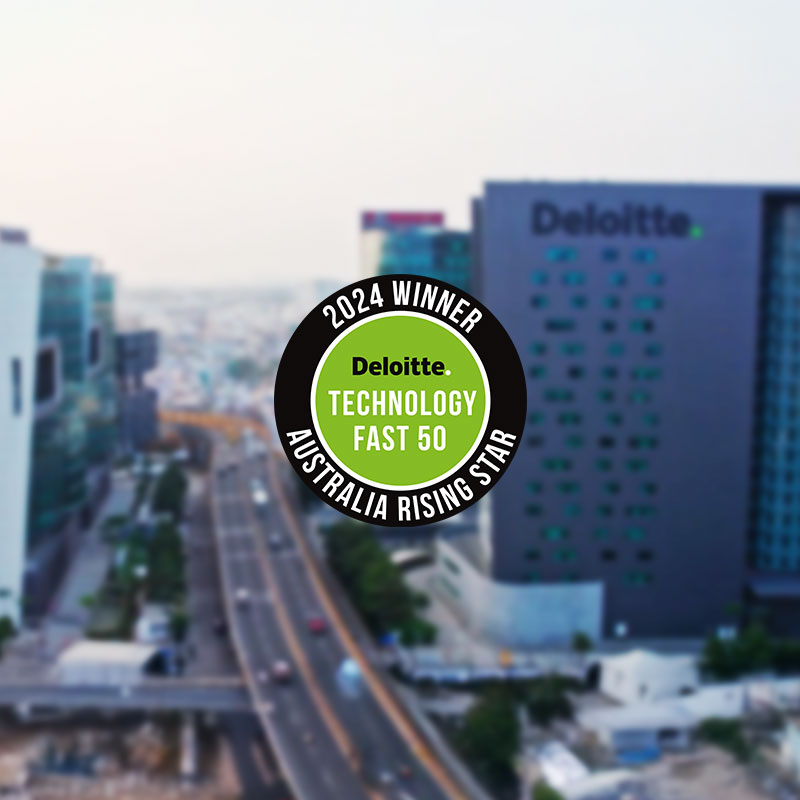
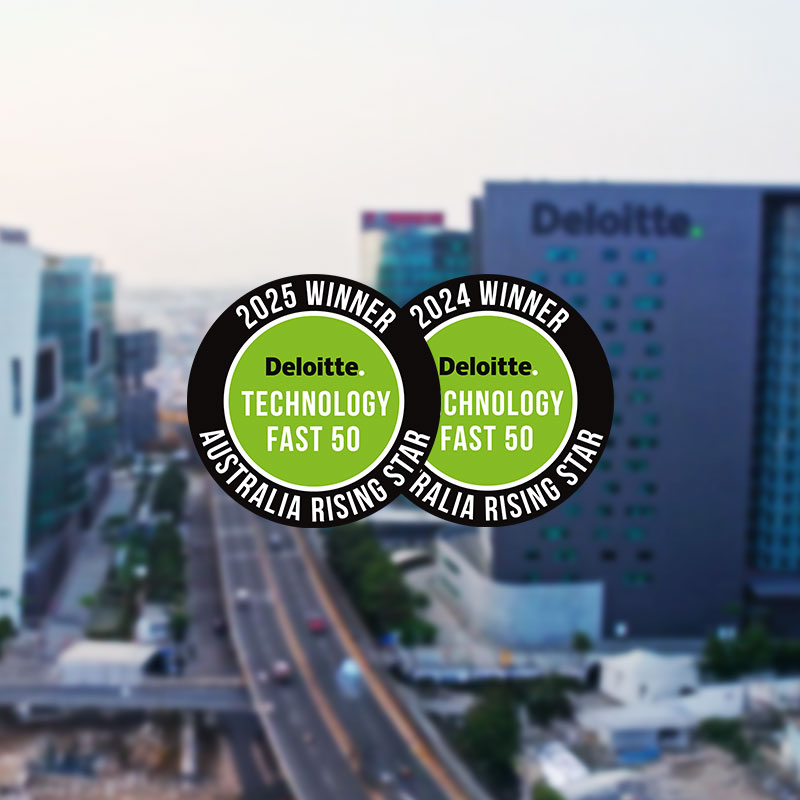
updated recognition page with new image and fixed left right image and text

Changed region(s): [[0.2188, 0.3438, 0.7812, 0.6875]]

diff --git a/app/recognition/page.tsx b/app/recognition/page.tsx
@@ -23,53 +23,62 @@ export default function RecognitionPage() {
         />
         <AwardsSection />
         <EliteTalentSection hideLearnMore={true} />
+        {/* 1. Back-to-back Winner - Deloitte Technology Fast 50 Rising Star 2024 and 2025 - BLUE BG - Text Left, Image Right */}
         <ImageTextSection variant="simple"
-          title="Approved Supplier - Federal Government ICT Digital & Cloud Marketplace Panels"
-          description="Software@Scale is an approved supplier on the Australian Government’s Digital and Cloud Marketplace Panels, allowing federal agencies to directly engage us for ICT and digital services. Approved across every service category we applied for - including software engineering, architecture, cybersecurity and cloud consulting - this accreditation demonstrates our national capability to deliver complex, high-impact digital projects for government."
-          imageSrc="/images/placeholder/placeholder21.jpg"
-          backgroundColor="bg-[#006cc9]"
-          textColor="text-white"
-          titleColor="text-[#14d3f3]"
-        />
-        <ImageTextSection variant="simple"
-          title="Approved Supplier - NSW Government ICT Services Scheme (SCM0020)"
-          description="Software@Scale is a preferred supplier under the NSW Government ICT Services Scheme (Advanced Register), reflecting our proven ability to deliver secure, compliant and innovative technology solutions. We were approved across all nominated categories - from cloud engineering and software design to data analytics and AI - reinforcing our trusted reputation within the public sector."
-          imageSrc="/images/placeholder/placeholder22.jpg"
-          backgroundColor="bg-[#cce1f4]"
-          textColor="text-[#00050a]"
-          titleColor="text-[#0c2080]"
-          imageOnRight={false}
-        />
-        <ImageTextSection variant="simple"
-          title="Finalist - Atlassian Tech Leadership Awards 2025"
-          description="Software@Scale has proudly been named a finalist in the prestigious Atlassian Tech Leadership Awards 2025, which recognises exceptional leadership in the realms of technology, innovation, and organisational culture. This nomination not only highlights our commitment to delivering transformative digital solutions through Atlassian’s robust ecosystem but also celebrates our dedication to empowering both teams and clients to achieve remarkable operational excellence at scale."
-          imageSrc="/images/placeholder/placeholder23.jpg"
-          backgroundColor="bg-[#006cc9]"
-          textColor="text-white"
-          titleColor="text-[#14d3f3]"
-        />
-        <ImageTextSection variant="simple"
-          title="Winner - Australia’s Fastest Growing Business 2025"
-          description="At the prestigious 2025 CUB Awards, Software@Scale proudly received the title of Australia’s Fastest Growing Business. This national recognition is a celebration of exceptional entrepreneurial excellence, groundbreaking innovation, and remarkable expansion in the competitive landscape. Winning this award is a testament to the unwavering dedication of our talented team, the strong partnerships we have built with our clients, and our relentless pursuit of growth through innovative solutions and a steadfast commitment to customer success. We are excited to continue this journey and achieve even greater heights."
-          imageSrc="/images/placeholder/placeholder24.jpg"
-          backgroundColor="bg-[#cce1f4]"
-          textColor="text-[#00050a]"
-          titleColor="text-[#0c2080]"
-          imageOnRight={false}
-        />
-        <ImageTextSection variant="simple"
-          title="Winner - Deloitte Technology Fast 50 Rising Star 2024"
-          description="Software@Scale has proudly secured the top position in Australia as the 2024 Deloitte Technology Fast 50 Rising Star Winner. This prestigious recognition celebrates our extraordinary growth and outstanding performance among the most promising emerging technology companies in the region. This remarkable achievement not only underscores our rapid pace of innovation but also highlights our unwavering ability to scale sustainably. Furthermore, it reflects our deep commitment to shaping the future of Australia’s technology landscape, paving the way for new advancements and opportunities in the industry."
+          title="Back-to-back Winner – Deloitte Technology Fast 50 Rising Star 2024 and 2025"
+          description="Software@Scale is proud to be recognised for the second consecutive year as the Deloitte Technology Fast 50 Rising Star Winner for 2024 and 2025. This back-to-back achievement celebrates our consistent innovation, exceptional growth, and leading performance among Australia's most dynamic technology companies. Earning the top position two years running underscores our unwavering commitment to scaling sustainably, driving meaningful outcomes for our clients, and shaping the future of Australia's digital economy. These consecutive honours reflect not only our pace of progress but also our enduring vision - to build technology that delivers lasting impact and opportunity across the industry."
           imageSrc="/images/placeholder/placeholder25.jpg"
           backgroundColor="bg-[#006cc9]"
           textColor="text-white"
           titleColor="text-[#14d3f3]"
+          imageOnRight={true}
         />
+        {/* 2. Approved Supplier - NSW Government ICT Services Scheme - WHITE BG - Image Left, Text Right */}
         <ImageTextSection variant="simple"
-          title="Finalist - The CEO Magazine Executive of the Year Awards 2025"
-          description="Our CEO and Co-Founder, Louis Droguett, has been proudly recognised as a finalist in The CEO Magazine’s prestigious 2025 Executive of the Year Awards. These awards celebrate not only visionary leadership but also outstanding executive performance across the entire landscape of Australia. This remarkable recognition truly honours Louis’s unwavering commitment to innovation, his people-first leadership approach, and the strategic direction that has been instrumental in guiding Software@Scale to its remarkable success."
+          title="Approved Supplier – NSW Government ICT Services Scheme (SCM0020)"
+          description="Software@Scale is a preferred supplier under the NSW Government ICT Services Scheme (Advanced Register), reflecting our proven ability to deliver secure, compliant and innovative technology solutions. We were approved across all nominated categories - from cloud engineering and software design to data analytics and AI - reinforcing our trusted reputation within the public sector."
+          imageSrc="/images/placeholder/placeholder22.jpg"
+          backgroundColor="bg-white"
+          textColor="text-[#00050a]"
+          titleColor="text-[#0c2080]"
+          imageOnRight={false}
+        />
+        {/* 3. Approved Supplier - Federal Government ICT Digital & Cloud Marketplace Panels - BLUE BG - Text Left, Image Right */}
+        <ImageTextSection variant="simple"
+          title="Approved Supplier – Federal Government ICT Digital & Cloud Marketplace Panels"
+          description="Software@Scale is an approved supplier on the Australian Government's Digital and Cloud Marketplace Panels, allowing federal agencies to directly engage us for ICT and digital services. Approved across every service category we applied for - including software engineering, architecture, cybersecurity and cloud consulting - this accreditation demonstrates our national capability to deliver complex, high-impact digital projects for government."
+          imageSrc="/images/placeholder/placeholder21.jpg"
+          backgroundColor="bg-[#006cc9]"
+          textColor="text-white"
+          titleColor="text-[#14d3f3]"
+          imageOnRight={true}
+        />
+        {/* 4. Winner - Australia's Fastest Growing Business 2025 - WHITE BG - Image Left, Text Right */}
+        <ImageTextSection variant="simple"
+          title="Winner – Australia's Fastest Growing Business 2025"
+          description="At the prestigious 2025 CUB Awards, Software@Scale proudly received the title of Australia's Fastest Growing Business. This national recognition is a celebration of exceptional entrepreneurial excellence, groundbreaking innovation, and remarkable expansion in the competitive landscape. Winning this award is a testament to the unwavering dedication of our talented team, the strong partnerships we have built with our clients, and our relentless pursuit of growth through innovative solutions and a steadfast commitment to customer success. We are excited to continue this journey and achieve even greater heights."
+          imageSrc="/images/placeholder/placeholder24.jpg"
+          backgroundColor="bg-white"
+          textColor="text-[#00050a]"
+          titleColor="text-[#0c2080]"
+          imageOnRight={false}
+        />
+        {/* 5. Finalist - Atlassian Tech Leadership Awards 2025 - BLUE BG - Text Left, Image Right */}
+        <ImageTextSection variant="simple"
+          title="Finalist – Atlassian Tech Leadership Awards 2025"
+          description="Software@Scale has proudly been named a finalist in the prestigious Atlassian Tech Leadership Awards 2025, which recognises exceptional leadership in the realms of technology, innovation, and organisational culture. This nomination not only highlights our commitment to delivering transformative digital solutions through Atlassian's robust ecosystem but also celebrates our dedication to empowering both teams and clients to achieve remarkable operational excellence at scale."
+          imageSrc="/images/placeholder/placeholder23.jpg"
+          backgroundColor="bg-[#006cc9]"
+          textColor="text-white"
+          titleColor="text-[#14d3f3]"
+          imageOnRight={true}
+        />
+        {/* 6. Finalist - The CEO Magazine Executive of the Year Awards 2025 - WHITE BG - Image Left, Text Right */}
+        <ImageTextSection variant="simple"
+          title="Finalist – The CEO Magazine Executive of the Year Awards 2025"
+          description="Our CEO and Co-Founder, Louis Droguett, has been proudly recognised as a finalist in The CEO Magazine's prestigious 2025 Executive of the Year Awards. These awards celebrate not only visionary leadership but also outstanding executive performance across the entire landscape of Australia. This remarkable recognition truly honours Louis's unwavering commitment to innovation, his people-first leadership approach, and the strategic direction that has been instrumental in guiding Software@Scale to its remarkable success."
           imageSrc="/images/placeholder/placeholder26.jpg"
-          backgroundColor="bg-[#cce1f4]"
+          backgroundColor="bg-white"
           textColor="text-[#00050a]"
           titleColor="text-[#0c2080]"
           imageOnRight={false}

diff --git a/app/components/shared/ImageTextSection.tsx b/app/components/shared/ImageTextSection.tsx
@@ -105,7 +105,7 @@ export default function ImageTextSection({
   };
 
   const content = (
-    <div className="content-stretch flex flex-col gap-6 md:gap-8 grow md:basis-0 items-start relative shrink-0 w-full md:w-1/2 order-1 md:order-1">
+    <div className={`content-stretch flex flex-col gap-6 md:gap-8 grow md:basis-0 items-start relative shrink-0 w-full md:w-1/2 order-1 ${imageOnRight ? 'md:order-1' : 'md:order-2'}`}>
       <h2 className={`font-bold text-[36px] md:text-[48px] leading-[1.2] tracking-[-0.36px] md:tracking-[-0.48px] w-full ${titleColor}`}>
         {title}
       </h2>
@@ -114,7 +114,7 @@ export default function ImageTextSection({
   );
 
   const image = (
-    <div className={`relative rounded-2xl shrink-0 w-full ${imageHeight} md:w-1/2 order-2 md:order-2`}>
+    <div className={`relative rounded-2xl shrink-0 w-full ${imageHeight} md:w-1/2 order-2 ${imageOnRight ? 'md:order-2' : 'md:order-1'}`}>
       <Image
         src={imageSrc}
         alt={imageAlt || title}
